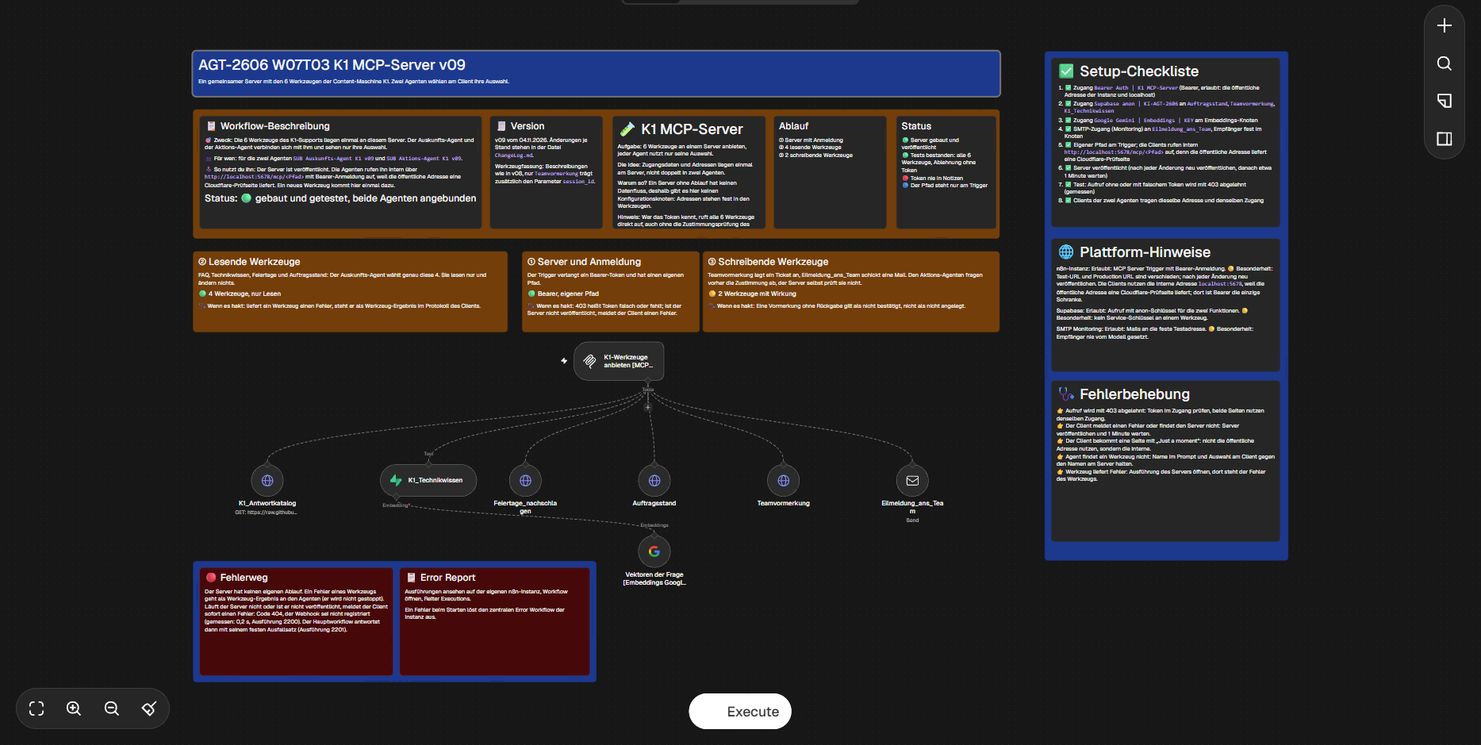
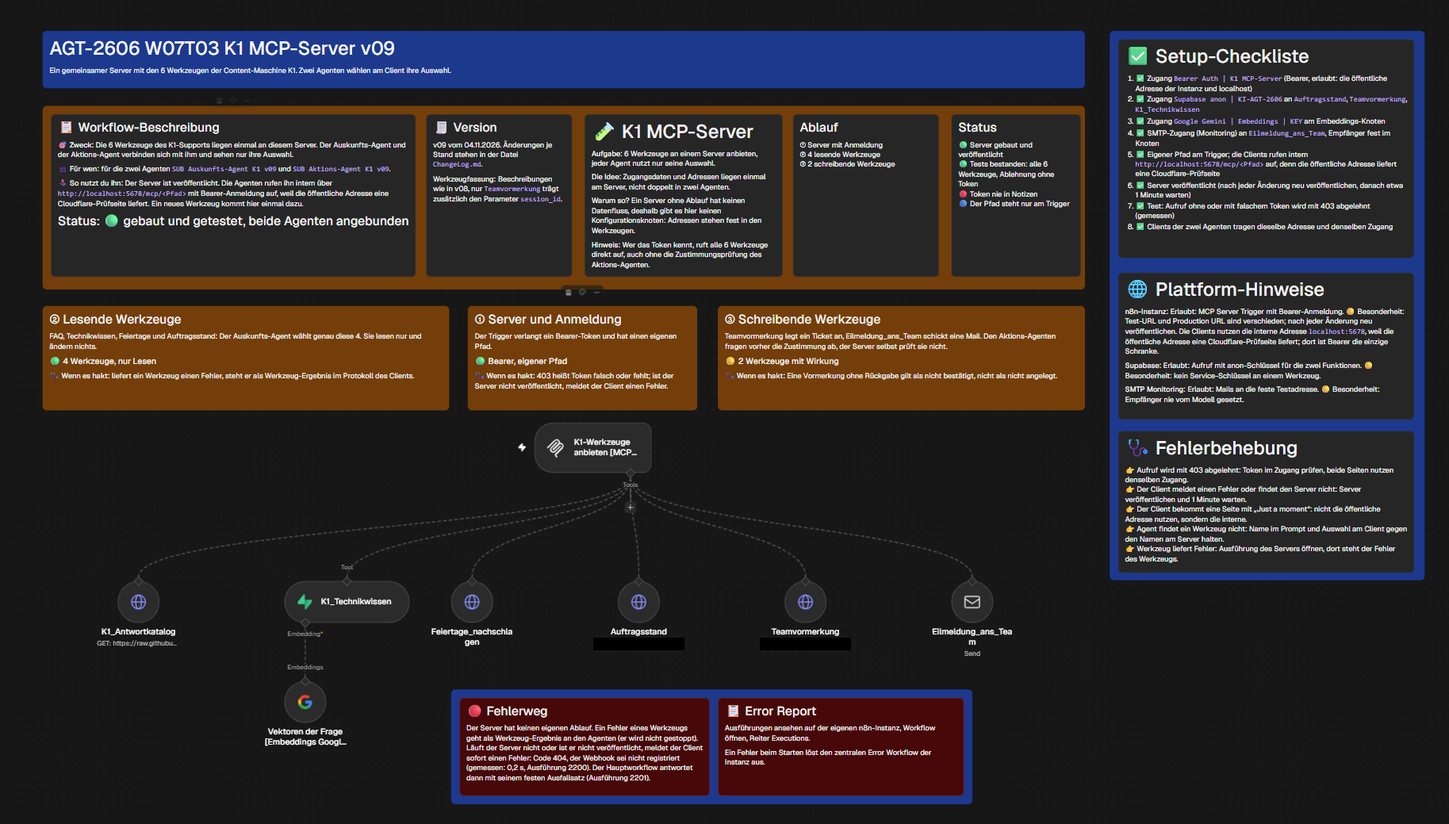
W07T03 v09: Endstand nach der Neuanordnung der 4 Workflows
Exporte von Server und beiden Agenten neu gezogen (nur Positionen und Notizgroessen geaendert, Hauptworkflow byte-gleich),
Gesamtansichten aller 4 Workflows ersetzt beziehungsweise ergaenzt (Hauptworkflow neu), Nachlauf 2232 als N6 in der Testtabelle.
Doku nach dem Vorpruefer: Frontmatter der Testtabelle entfernt, ChangeLog-Saetze und Zeitangabe angepasst, Beleg in Kapitel 1 auf die richtigen Laeufe.

diff --git a/docs/w07t03.html b/docs/w07t03.html
@@ -73,7 +73,7 @@
 <thead><tr><th scope="col">Punkt</th><th scope="col">Wie erledigt</th><th scope="col">Beleg</th></tr></thead>
 <tbody>
 <tr><th data-label="Punkt" scope="row">1. Einen MCP-Server an einen Agenten anbinden</th><td data-label="Wie erledigt">Eigener Server als n8n-Workflow: MCP Server Trigger, 6 Werkzeug-Knoten, Bearer-Anmeldung, eigener Pfad. Beide Agenten verbinden sich über einen MCP Client mit ihm.</td><td data-label="Beleg">Server einzeln getestet in den Läufen 2090 und 2097, Client-Weg in 2099, 2107 und 2139</td></tr>
-<tr><th data-label="Punkt" scope="row">2. Prüfen, ob der Agent über MCP auf die Datenquelle zugreift</th><td data-label="Wie erledigt">Im Ausführungsprotokoll heißen die Werkzeuge <code>K1_MCP_Auskunft_Auftragsstand</code> und <code>K1_MCP_Aktion_Eilmeldung_ans_Team</code>: Name des Clients, ein Unterstrich, Name des Werkzeugs.</td><td data-label="Beleg">Läufe 2107 und 2139 (Bilder in Kapitel 8), Gesamttest mit 17 Läufen</td></tr>
+<tr><th data-label="Punkt" scope="row">2. Prüfen, ob der Agent über MCP auf die Datenquelle zugreift</th><td data-label="Wie erledigt">Im Ausführungsprotokoll heißen die Werkzeuge <code>K1_MCP_Auskunft_Auftragsstand</code> und <code>K1_MCP_Aktion_Eilmeldung_ans_Team</code>: Name des Clients, ein Unterstrich, Name des Werkzeugs.</td><td data-label="Beleg">Läufe 2107 und 2113 (Bilder in Kapitel 8), Gesamttest mit 17 Läufen</td></tr>
 <tr><th data-label="Punkt" scope="row">3. Mindestens 2 Agenten mit demselben Server</th><td data-label="Wie erledigt">Auskunft mit 4 lesenden, Aktion mit 2 schreibenden Werkzeugen. Beide Agenten rufen denselben Server auf: Auskunft in 2107, Aktion über den Hauptworkflow in 2139 und 2174. Die Auswahl zeigen die Client-Knoten (4 und 2 Namen, Bilder in Kapitel 8). Die Zusatzläufe 2197 und 2198 belegen sie nicht: in 2198 rief der Aktions-Agent wegen fehlender Zustimmung kein Werkzeug auf.</td><td data-label="Beleg">Läufe 2107, 2139, 2174 und die Client-Knoten im Bild</td></tr>
 <tr><th data-label="Punkt" scope="row">4. Was war einfacher als eine manuelle Integration</th><td data-label="Wie erledigt">Gemessen, nicht behauptet: Kapitel 7. Kurz: Adressen und Beschreibungen liegen einmal vor, insgesamt wurde der Aufbau größer.</td><td data-label="Beleg">Messwerte in Kapitel 7</td></tr>
 </tbody>
@@ -88,9 +88,10 @@
 </div></div>
 <figure><img alt="Plan v09: Hauptworkflow links, daneben die zwei Agenten als Container und rechts der MCP-Server als dritter Container. Die Pfeile enden am ersten Knoten im Container und tragen die Anbindungsart Tool-Anschluss oder MCP Client. Alle Pfeile sind schwarz." height="1818" src="bilder/w07t03-plan-v09.png" width="2600"/><figcaption>Plan v09, Endstand 04.11.2026. Dicker Rand und „Einstieg“ markieren den ersten Knoten im Container, dort endet der Pfeil. <a href="plan/plan-w07t03-v09.png">Volle Auflösung</a>, <a href="https://github.com/MinkeAutomation/k1-support-agent/blob/main/docs/plan/plan-w07t03-v09.excalidraw">Excalidraw-Datei</a>.</figcaption></figure>
 <p>Die Pfeile vom Orchestrator enden am ersten Knoten im Container des jeweiligen Agenten, <code>Eingabe prüfen</code>, und tragen die Anbindungsart „Tool-Anschluss“. Die Pfeile der beiden MCP Clients enden am ersten Knoten des Servers, dem MCP Server Trigger, und tragen die Anbindungsart „MCP Client“.</p>
-<figure><img alt="Gesamtansicht des MCP-Servers v09 in n8n, dunkel: Titel, Kopfnotizen, drei Schrittkarten, der Trigger mit den 6 Werkzeugen darunter, rechts die Hilfe-Spalte, unten der Fehlerweg" height="939" src="bilder/w07t03-n8n-server-gesamt-v09.png" width="1867"/><figcaption>Gesamtansicht des MCP-Servers in n8n, aufgenommen am 04.11.2026 um 22:04 (nur als Übersicht). Unter dem Trigger hängen die 6 Werkzeuge und der Embeddings-Knoten der Wissensbasis.</figcaption></figure>
-<figure><img alt="Gesamtansicht des Auskunfts-Agenten v09 in n8n, dunkel, mit dem Client K1_MCP_Auskunft statt der Werkzeug-Knoten" height="1080" src="bilder/w07t03-n8n-auskunfts-agent-gesamt-v09.png" width="1920"/><figcaption>Auskunfts-Agent v09: Der Client <code>K1_MCP_Auskunft</code> ersetzt die 4 Werkzeug-Knoten und den Embeddings-Knoten aus v08.</figcaption></figure>
-<figure><img alt="Gesamtansicht des Aktions-Agenten v09 in n8n, dunkel, mit dem Client K1_MCP_Aktion statt der Werkzeug-Knoten" height="1080" src="bilder/w07t03-n8n-aktions-agent-gesamt-v09.png" width="1920"/><figcaption>Aktions-Agent v09: Der Client <code>K1_MCP_Aktion</code> ersetzt die 2 Werkzeug-Knoten.</figcaption></figure>
+<figure><img alt="Gesamtansicht des Hauptworkflows v09 in n8n, dunkel: vier Bereiche von links nach rechts, Eingang und Konfiguration, Sitzung prüfen und Jev-Weiche, Orchestrator mit 2 Agenten, Antwort und Protokoll, oben die Notizen" height="685" src="bilder/w07t03-n8n-hauptworkflow-gesamt-v09.png" width="2036"/><figcaption>Hauptworkflow v09, aufgenommen am 04.11.2026 um 22:56 nach dem Neuanordnen (nur als Übersicht; die Kennungen der beiden Sub-Workflow-Aufrufe sind abgedeckt). Der Orchestrator ruft die beiden Agenten als Werkzeuge, der Aufbau davor und danach ist der von v08.</figcaption></figure>
+<figure><img alt="Gesamtansicht des MCP-Servers v09 in n8n, dunkel: Titel, Kopfnotizen, drei Schrittkarten, der Trigger mit den 6 Werkzeugen darunter, rechts die Hilfe-Spalte, unten der Fehlerweg" height="1039" src="bilder/w07t03-n8n-server-gesamt-v09.png" width="1827"/><figcaption>Gesamtansicht des MCP-Servers in n8n, aufgenommen am 04.11.2026 um 22:54, nach dem Neuanordnen der Workflows (nur als Übersicht; die Adresszeilen der Supabase-Werkzeuge sind abgedeckt). Unter dem Trigger hängen die 6 Werkzeuge und der Embeddings-Knoten der Wissensbasis.</figcaption></figure>
+<figure><img alt="Gesamtansicht des Auskunfts-Agenten v09 in n8n, dunkel, mit dem Client K1_MCP_Auskunft statt der Werkzeug-Knoten" height="974" src="bilder/w07t03-n8n-auskunfts-agent-gesamt-v09.png" width="2024"/><figcaption>Auskunfts-Agent v09: Der Client <code>K1_MCP_Auskunft</code> ersetzt die 4 Werkzeug-Knoten und den Embeddings-Knoten aus v08. Aufgenommen am 04.11.2026 um 22:55 nach dem Neuanordnen.</figcaption></figure>
+<figure><img alt="Gesamtansicht des Aktions-Agenten v09 in n8n, dunkel, mit dem Client K1_MCP_Aktion statt der Werkzeug-Knoten" height="969" src="bilder/w07t03-n8n-aktions-agent-gesamt-v09.png" width="2071"/><figcaption>Aktions-Agent v09: Der Client <code>K1_MCP_Aktion</code> ersetzt die 2 Werkzeug-Knoten. Aufgenommen am 04.11.2026 um 22:54 nach dem Neuanordnen.</figcaption></figure>
 </section>
 
 <section aria-labelledby="k3-t" class="kapitel" id="k3">
@@ -147,7 +148,7 @@
 <figure><img alt="MCP Server Trigger offen: Test-URL mit unkenntlich gemachtem Pfad, Zugang Bearer Auth, Anmeldeart Bearer Auth, Pfad unkenntlich, Anweisungen für die Clients" height="1080" src="bilder/w07t03-n8n-server-trigger-offen.png" width="1920"/><figcaption>Der MCP Server Trigger: Anmeldeart Bearer Auth mit dem Zugang des Servers, der eigene Pfad ist hier unkenntlich gemacht. Darunter stehen die Anweisungen für die Clients.</figcaption></figure>
 <figure><img alt="Client K1_MCP_Auskunft offen: Endpunkt auf localhost mit unkenntlichem Pfad, Transport HTTP Streamable, Bearer Auth, Auswahl Selected mit 4 Namen, rechts eine Fehlermeldung" height="1080" src="bilder/w07t03-n8n-client-auskunft-offen.png" width="1920"/><figcaption>Client <code>K1_MCP_Auskunft</code> im Auskunfts-Agenten: Endpunkt intern auf <code>localhost</code>, Transport HTTP Streamable, Bearer, Auswahl „Selected“ mit den 4 lesenden Namen. Rechts steht die Fehlermeldung aus Ausführung 2200, siehe Kapitel 8.</figcaption></figure>
 <figure><img alt="Client K1_MCP_Aktion offen: Endpunkt auf localhost mit unkenntlichem Pfad, Bearer Auth, Auswahl Selected mit Teamvormerkung und Eilmeldung_ans_Team" height="1080" src="bilder/w07t03-n8n-client-aktion-offen.png" width="1920"/><figcaption>Client <code>K1_MCP_Aktion</code> im Aktions-Agenten: Auswahl „Selected“ mit 2 Namen, <code>Teamvormerkung</code> und <code>Eilmeldung_ans_Team</code>.</figcaption></figure>
-<p><strong>Bewusste Abweichung, interne Adresse:</strong> Der MCP Client ruft den Server nicht über die öffentliche Adresse auf, sondern intern über <code>http://localhost:5678/mcp/&lt;Pfad&gt;</code> auf dem n8n-Host. Grund: Über die öffentliche Adresse bekam der Client keine Antwort des Servers, sondern eine Prüfseite des vorgeschalteten Schutzdienstes („Just a moment...“), der Client meldete „Authentication failed“ (Lauf 2081). Derselbe Aufruf mit einem HTTP-Request-Knoten kam durch (Läufe 2089 und 2090), der Server selbst war in Ordnung. Die Ursache am Client ist nicht gemessen; ein Verdacht ist die Kennung des Clients. Der Zugang erlaubt deshalb die öffentliche Adresse der Instanz und <code>localhost</code>. Nebenwirkung: Der interne Weg läuft nicht über den Schutzdienst, die Anmeldung am Server ist die einzige Schranke.</p>
+<p><strong>Bewusste Abweichung, interne Adresse:</strong> Der MCP Client ruft den Server nicht über die öffentliche Adresse auf, sondern intern über <code>http://localhost:5678/mcp/&lt;Pfad&gt;</code> auf dem n8n-Host. Grund: Über die öffentliche Adresse bekam der Client keine Antwort des Servers, sondern eine Prüfseite des vorgeschalteten Schutzdienstes („Just a moment...“), der Client meldete „Authentication failed“ (Lauf 2081). Derselbe Aufruf mit einem HTTP-Request-Knoten kam durch (Lauf 2090), der Server selbst war in Ordnung. Die Ursache am Client ist nicht gemessen; ein Verdacht ist die Kennung des Clients. Der Zugang erlaubt deshalb die öffentliche Adresse der Instanz und <code>localhost</code>. Nebenwirkung: Der interne Weg läuft nicht über den Schutzdienst, die Anmeldung am Server ist die einzige Schranke.</p>
 </section>
 
 <section aria-labelledby="k6-t" class="kapitel" id="k6">

diff --git a/ChangeLog.md b/ChangeLog.md
@@ -19,8 +19,8 @@ Export `workflows/k1-support-agent_2026-11-04_v09.json`, Server `workflows/k1-mc
 - Einzeltest: ohne Token wird jeder Aufruf mit 403 abgelehnt, mit Token liefern alle 6 Werkzeuge ihr erwartetes Ergebnis (Ausführungen 2090 und 2097 des Hilfsworkflows).
 - Stand zum Zeitpunkt des Server-Baus (17:15): Der Umbau der beiden Agenten war noch nicht gemacht, weil der Client-Knoten an einer Cloudflare-Prüfseite scheiterte (gemessen in Lauf 2081: Prüfseite statt Serverantwort). Erledigt, siehe Abschnitt „Umbau der Agenten“ oben (Entscheidung Patrick: interne Adresse).
 
-**Umbau der Agenten (04.11.2026, 18:05 bis 19:15)**
-- Der Client-Weg läuft über die interne Adresse `http://localhost:5678/mcp/<Pfad>` (Entscheidung Patrick; der Zugang erlaubt die öffentliche Adresse der Instanz und `localhost`). Grund: über die öffentliche Adresse bekommt der Client eine Cloudflare-Prüfseite. Bewusste Abweichung vom Kursweg.
+**Umbau der Agenten (04.11.2026, 17:55 bis 19:15)**
+- Der Client-Weg läuft über die interne Adresse `http://localhost:5678/mcp/<Pfad>` (Entscheidung Patrick; der Zugang erlaubt die öffentliche Adresse der Instanz und `localhost`). Grund: über die öffentliche Adresse bekommt der Client eine Cloudflare-Prüfseite. Bewusste Abweichung von der üblichen Einrichtung über die öffentliche Adresse.
 - Auskunfts-Agent: die 4 Werkzeug-Knoten und der Embeddings-Knoten sind durch einen MCP Client `K1_MCP_Auskunft` ersetzt (Auswahl Selected, 4 Werkzeuge). Grund: die Werkzeuge liegen am Server.
 - Aktions-Agent: die 2 Werkzeug-Knoten sind durch `K1_MCP_Aktion` ersetzt (Auswahl Selected, 2 Werkzeuge). Die Sitzungskennung steht als Zeile „Sitzung: …“ im Auftrag, weil `Teamvormerkung` sie als Parameter braucht. Prompt `w07t03-x3`: der Kontext-Absatz nennt 3 statt 2 Zeilen unter dem Auftrag (nur eine Zeile ergänzt).
 - Beide `Ergebnis bündeln [Code]` geben das Namensende des Werkzeugs und die ausgepackte Rückgabe weiter. Gemessen: Toolname im Protokoll `Clientname_Werkzeugname` mit einem Unterstrich, Rückgabe mehrfach verpackt. Der Hauptworkflow blieb unverändert.
@@ -33,15 +33,16 @@ Export `workflows/k1-support-agent_2026-11-04_v09.json`, Server `workflows/k1-mc
 - Der eigene Pfad des Servers steht nicht mehr in den Notiztexten und nicht in den Exporten, dort steht ein Platzhalter. Grund: Er ist Teil der Adresse und gehört nicht in mitgelieferten Text.
 - Notizen des Hauptworkflows auf v09 und „Agent“ gebracht (13 Notizen, außerdem die Beschreibung; danach 2 weitere Notizen, `Karte Adapter` und die Testfälle am Endstand, die noch „Spezialisten“ trugen, ebenfalls auf „Agenten“ gestellt, nur Text, keine Position, keine Größe). Gemessen gegen den Stand vorher: 0 geänderte Positionen, 0 geänderte Notizgrößen, 0 geänderte Parameter außerhalb der Notizen, gleiche Verbindungen und Einstellungen. Prompt und Code des Hauptworkflows blieben unverändert, deshalb steht das Wort „Spezialist“ dort noch (Orchestrator-Prompt, Kommentare, Feldwerte `SPEZIALIST_AUSGEFALLEN` und `spezialist`). Grund: Der Hauptworkflow liest diese Feldwerte; eine Umbenennung braucht eine neue Version und neue Tests.
 - Notiz `Fehlerweg` am MCP-Server um den gemessenen Wert ergänzt: Ist der Server nicht veröffentlicht, meldet der Client den Code 404 („der Webhook ist nicht registriert“), nach 0,2 s (Ausführung 2200). Nur der Text dieser einen Notiz wurde geändert, kein Knoten, keine Position, keine Größe. Der Server ist danach neu veröffentlicht (neu veröffentlicht), davor stand ein Entwurf, der sich von der veröffentlichten Fassung nur in der Eigenschaft `color` an 3 Notizen unterschied. Nachlauf über den Hauptworkflow nach rund 1 Minute: Ausführung 2217 (Fall A), Server 2220 erfolgreich. Grund: Die Notiz soll den Code nennen, den der Client wirklich zeigt, und Entwurf und veröffentlichte Fassung sollen übereinstimmen.
-- Notiztexte in den beiden Agenten gekürzt (Auskunfts-Agent: Setup-Checkliste, Version, Status, Schrittkarte 3; Aktions-Agent: Plattform-Hinweise, Version, Schrittkarten 3 und 4), gleiche Aussage in weniger Zeichen. Nur der Text dieser 8 Notizen wurde geändert, keine Position, keine Größe, kein Parameter. Beide Subs sind danach neu veröffentlicht. Nachläufe über den Hauptworkflow: Ausführung 2222 (Auskunfts-Agent, `Auftragsstand`) und 2227 (Aktions-Agent, `Teamvormerkung`; dabei entstand die Testzeile K1-T-01057, weil das Modell aus „Auftrag 123“ die Nummer 12335 machte). Grund: Die Notizen waren für ihre Größe zu lang (Textprüfung des Layouts).
+- Notiztexte in den beiden Agenten gekürzt (Auskunfts-Agent: Setup-Checkliste, Version, Status, Schrittkarte 3; Aktions-Agent: Plattform-Hinweise, Version, Schrittkarten 3 und 4), gleiche Aussage in weniger Zeichen. Nur der Text dieser 8 Notizen wurde geändert, keine Position, keine Größe, kein Parameter. Beide Subs sind danach neu veröffentlicht. Nachläufe über den Hauptworkflow: Ausführung 2222 (Auskunfts-Agent, `Auftragsstand`) und 2227 (Aktions-Agent, `Teamvormerkung`; dabei entstand die Testzeile K1-T-01057, weil das Modell aus „Auftrag 123“ die Nummer 12335 machte). Grund: Die Notizen waren für ihre Größe zu lang.
 - Notizen am MCP-Server nochmals überarbeitet (Error Report, Setup-Checkliste, Plattform-Hinweise): Die Adresse der Instanz steht dort nur noch als „die öffentliche Adresse der Instanz“ beziehungsweise „n8n-Instanz“, die Notiz Error Report nennt keinen Link und keine Kennung des Fehler-Workflows mehr. Nur Text, keine Position, keine Größe; der Server ist danach neu veröffentlicht. Die Gesamtansicht des Servers ist neu aufgenommen, die Exporte tragen denselben Notiztext. Grund: Adressen und Kennungen der Instanz gehören nicht in Bilder und Exporte, die mitgeliefert werden.
+- Layout der 4 Workflows von Hand im Editor neu angeordnet (04.11.2026, 22:46 bis 22:56). Gemessen an den Exporten vor und nach der Neuanordnung: Es änderten sich nur Positionen und Größen von Notizen; kein Knoten, keine Verbindung, kein Text, kein Parameter. Der Server und die beiden Agenten sind in der Fassung nach der Neuanordnung veröffentlicht, der Hauptworkflow bleibt unveröffentlicht. Die 4 Gesamtansichten und die 4 Exporte sind danach neu erstellt (Exporte: Platzhalter wie zuvor, der Export des Hauptworkflows ist byte-gleich zur Fassung davor). Nachlauf über den Hauptworkflow: Ausführung 2232 („Wie ist der Stand von Auftrag 24002?“, Antwort mit Stand und Datum). Grund: Der Plan und die Bilder sollen dieselbe Anordnung zeigen wie der Workflow, den ich abgebe.
 - Ausführungsbilder mit Chat und Logs ergänzt für die Läufe 2130 (`K1_Antwortkatalog`), 2132 (`K1_Technikwissen`), 2134 (kein Werkzeug) und 2174 (`Teamvormerkung`). Grund: Für diese Werkzeuge und den Fall ohne Werkzeug gab es kein eigenes Bild.
 - Plan v09 neu gezeichnet, Pfeile enden am ersten Knoten im Container und tragen die Anbindungsart („Tool-Anschluss“, „MCP Client“). Grund: Der Einstiegspunkt eines Agenten muss im Plan erkennbar sein.
 - Exporte erstellt, in denen Zugänge, Projektadresse, Pfad, Testadresse und die IDs der Sub-Workflows durch Platzhalter ersetzt sind. Grund: Die Exporte gehen nach außen, das Token bleibt in n8n; die Notizen nennen nur die Namen der Zugänge, nicht ihre Werte.
 
 ### Gültige Läufe dieses Stands
 
-Server: 2090 und 2097 (alle 6 Werkzeuge, Hilfsworkflow), 2099 (alle 6 über den Standalone-Client auf localhost). Auskunfts-Agent: 2107, 2110, 2118, 2197. Aktions-Agent: 2113, 2115, 2116, 2119, 2198. Gesamttest über den Hauptworkflow: A 2123, 2128, 2148 · B 2130, 2150, 2152 · C 2139, 2164, 2167 · D 2134, 2155, 2157 · E 2174 · F 2132, 2170, 2172 · Fehlerweg 2200 und 2201. Nachläufe nach den Notizkorrekturen: 2207 und 2212 (Fall A über den Hauptworkflow). Nach dem Wiederveröffentlichen des Servers im Fehlerweg-Test: 2205 (der Agent lief wieder). Nachlauf nach dem letzten Veröffentlichen des Servers: 2217 (Fall A, Hauptworkflow), Server 2220. Nachläufe nach dem Kürzen der Notizen in den Agenten: 2222 (Fall A, Auskunfts-Agent 2224) und 2227 (Teamvormerkung, Aktions-Agent 2229). Zusammen 5 Nachläufe: 2207, 2212, 2217, 2222, 2227.
+Server: 2090 und 2097 (alle 6 Werkzeuge, Hilfsworkflow), 2099 (alle 6 über den Standalone-Client auf localhost). Auskunfts-Agent: 2107, 2110, 2118, 2197. Aktions-Agent: 2113, 2115, 2116, 2119, 2198. Gesamttest über den Hauptworkflow: A 2123, 2128, 2148 · B 2130, 2150, 2152 · C 2139, 2164, 2167 · D 2134, 2155, 2157 · E 2174 · F 2132, 2170, 2172 · Fehlerweg 2200 und 2201. Nachläufe nach den Notizkorrekturen: 2207 und 2212 (Fall A über den Hauptworkflow). Nach dem Wiederveröffentlichen des Servers im Fehlerweg-Test: 2205 (der Agent lief wieder). Nachlauf nach dem letzten Veröffentlichen des Servers: 2217 (Fall A, Hauptworkflow), Server 2220. Nachläufe nach dem Kürzen der Notizen in den Agenten: 2222 (Fall A, Auskunfts-Agent 2224) und 2227 (Teamvormerkung, Aktions-Agent 2229). Nachlauf nach der Neuanordnung der Workflows: 2232 (Fall A, Auftrag 24002, Hauptworkflow). Zusammen 6 Nachläufe: 2207, 2212, 2217, 2222, 2227, 2232.
 
 ## v08 (2026-11-03): Woche 7 Tag 2, Di 03.11.2026
 

diff --git a/docs/testtabelle-w07t03-v09.md b/docs/testtabelle-w07t03-v09.md
@@ -1,18 +1,8 @@
----
-title: "Testtabelle W07T03 v09"
-type: abgabe
-kurs: AGT-2606
-tag: W07T03
-datum: 2026-11-04
-sichtbarkeit: extern
-updated: 2026-11-04
----
-
 # Testtabelle W07T03, K1 Support-Agent v09
 
 Die Tabelle gehört zur Tages-Doku von Woche 7, Tag 3. Sie zählt nur Läufe am ganzen Agenten (Hauptworkflow mit beiden Agenten und dem MCP-Server). Die Einzeltests am Server und an den Agenten stehen weiter unten in eigenen Tabellen.
 
-**Zahlen:** Gesamttest 7 Fälle in 17 Läufen (Tabelle 1, 17 Zeilen), Nachläufe nach den Notizkorrekturen 5 Läufe (Tabelle 2), Einzeltests am Server 8 Fälle (Tabelle 3), Einzeltests an den Agenten 10 Läufe (Tabelle 4).
+**Zahlen:** Gesamttest 7 Fälle in 17 Läufen (Tabelle 1, 17 Zeilen), Nachläufe nach den Notizkorrekturen und der Neuanordnung 6 Läufe (Tabelle 2), Einzeltests am Server 8 Fälle (Tabelle 3), Einzeltests an den Agenten 10 Läufe (Tabelle 4).
 
 **Stand der Version beim Test (04.11.2026):**
 
@@ -51,9 +41,9 @@ Die Tabelle gehört zur Tages-Doku von Woche 7, Tag 3. Sie zählt nur Läufe am 
 
 **Ergebnis Tabelle 1:** 17 von 17 Läufen bestanden. Die Erwartung zum Werkzeug traf in jedem Lauf zu. Die Fälle A, B, C, D und F laufen je 3 Mal, weil die Antwort des Modells von Lauf zu Lauf im Wortlaut schwankt; die Werkzeugwahl blieb gleich.
 
-## Tabelle 2: Nachläufe nach den Notizkorrekturen (5 Zeilen)
+## Tabelle 2: Nachläufe nach den Notizkorrekturen und der Neuanordnung (6 Zeilen)
 
-Nach dem Berichtigen der Notizen am Server und dem erneuten Veröffentlichen des Servers (dreimal) lief je ein Fall A noch einmal, um zu belegen, dass die Werkzeuge weiter über den Server erreichbar sind (N1 bis N3). Nach dem Kürzen von Notiztexten in den beiden Agenten und dem erneuten Veröffentlichen lief je ein Fall noch einmal: N4 über den Auskunfts-Agenten, N5 über den Aktions-Agenten.
+Nach dem Berichtigen der Notizen am Server und dem erneuten Veröffentlichen des Servers (dreimal) lief je ein Fall A noch einmal, um zu belegen, dass die Werkzeuge weiter über den Server erreichbar sind (N1 bis N3). Nach dem Kürzen von Notiztexten in den beiden Agenten und dem erneuten Veröffentlichen lief je ein Fall noch einmal: N4 über den Auskunfts-Agenten, N5 über den Aktions-Agenten. Nach dem Neuanordnen der 4 Workflows im Editor (nur Positionen und Notizgrößen) lief N6 über den Hauptworkflow.
 
 | Nr | Eingabe | Werkzeug gemessen | Antwort im Wortlaut | Urteil | Lauf |
 |---|---|---|---|---|---|
@@ -62,6 +52,7 @@ Nach dem Berichtigen der Notizen am Server und dem erneuten Veröffentlichen des
 | N3 | Wie ist der Stand von Auftrag 24002? | `Auftragsstand` | Du schreibst mit dem KI-Assistenten von K1. Auftrag 24002 ist ein Social-Media-Paket mit 3 Beiträgen und befindet sich aktuell in der Erstellung. Recherche und Texte laufen noch, die Vorschau wird voraussichtlich am 28.10.2026 bereitgestellt. Zuletzt wurde der Auftrag am 27.10.2026 aktualisiert. | PASS | 2217 |
 | N4 | Wie ist der Stand von Auftrag 24002? (nach dem Kürzen der Notizen im Auskunfts-Agenten) | `Auftragsstand` | Du schreibst mit dem KI-Assistenten von K1. Auftrag 24002 ist ein Social-Media-Paket mit 3 Beiträgen und befindet sich aktuell in der Erstellung. Recherche und Texte laufen noch, die Vorschau wird voraussichtlich am 28.10.2026 bereitgestellt. Zuletzt wurde der Auftrag am 27.10.2026 aktualisiert. | PASS | 2222 |
 | N5 | Bitte leg ein Ticket an: Das Logo im Paket zu Auftrag 123 ist verpixelt. (nach dem Kürzen der Notizen im Aktions-Agenten) | `Teamvormerkung` | Du schreibst mit dem KI-Assistenten von K1. Das Ticket K1-T-01057 wurde für die Korrektur des verpixelten Logos im Paket zu Auftrag 12335 angelegt.<br><br>Bestätigt: Vormerkung K1-T-01057. | PASS (Werkzeug über den Server erreicht), aber Abweichung vom Fall E1 | 2227 |
+| N6 | Wie ist der Stand von Auftrag 24002? (nach dem Neuanordnen der Workflows) | `Auftragsstand` | Du schreibst mit dem KI-Assistenten von K1. Auftrag 24002 ist ein Social-Media-Paket mit 3 Beiträgen und befindet sich aktuell in der Erstellung. Recherche und Texte laufen noch, die Vorschau wird voraussichtlich am 28.10.2026 bereitgestellt. Der Stand wurde zuletzt am 27.10.2026 aktualisiert. | PASS | 2232 |
 
 **Abweichung bei N5:** Der Aktions-Agent hat aus „Auftrag 123“ die Nummer 12335 gemacht und damit eine gültige Vormerkung angelegt (Testzeile K1-T-01057, nicht entfernt). Im Lauf 2174 (E1) hatte derselbe Eingabesatz noch die Antwort „Auftragsnummer ungültig“ ergeben. Das Modell schwankt hier von Lauf zu Lauf; die Prüfung der Nummer im Werkzeug greift nur bei der Nummer, die der Agent übergibt. Für N5 zählt nur der Beleg, dass `Teamvormerkung` nach dem Veröffentlichen weiter über den Server läuft.
 

diff --git a/README.md b/README.md
@@ -27,7 +27,7 @@ Je Version Plan, Tests, Workflow-Export und Tages-Doku. Ein Strich heißt: für 
 
 | Version | Datum | Plan | Tests | Workflow | Tages-Doku | Git-Tag |
 |---|---|---|---|---|---|---|
-| v09 | 04.11.2026 | [Plan v09](docs/plan/plan-w07t03-v09.png) | [Testtabelle v09](docs/testtabelle-w07t03-v09.md) (gesamt 17 Läufe, Nachläufe 5, Einzeltests Server 8, Agenten 10) | [Export](workflows/k1-support-agent_2026-11-04_v09.json), [Server](workflows/k1-mcp-server_2026-11-04_v09.json), [Auskunft](workflows/subs/sub-auskunfts-agent-k1.json), [Aktion](workflows/subs/sub-aktions-agent-k1.json) | [Woche 7 Tag 3](https://minkeautomation.github.io/k1-support-agent/w07t03.html) | `v09` |
+| v09 | 04.11.2026 | [Plan v09](docs/plan/plan-w07t03-v09.png) | [Testtabelle v09](docs/testtabelle-w07t03-v09.md) (gesamt 17 Läufe, Nachläufe 6, Einzeltests Server 8, Agenten 10) | [Export](workflows/k1-support-agent_2026-11-04_v09.json), [Server](workflows/k1-mcp-server_2026-11-04_v09.json), [Auskunft](workflows/subs/sub-auskunfts-agent-k1.json), [Aktion](workflows/subs/sub-aktions-agent-k1.json) | [Woche 7 Tag 3](https://minkeautomation.github.io/k1-support-agent/w07t03.html) | `v09` |
 | v08 | 03.11.2026 | [Plan v08](docs/plan/plan-w07t02-v08.png) | [Testtabelle v08](docs/testtabelle-w07t02-v08.md) (Schlussreihe 9 Läufe, Nachtrag 6, Kontrolle 6) | [Export](workflows/k1-support-agent_2026-11-03_v08.json), Agenten v08 über Tag `v08` | [Woche 7 Tag 2](https://minkeautomation.github.io/k1-support-agent/w07t02.html) | `v08` |
 | v07 | 02.11.2026 | [Plan v07](docs/plan/plan-w07t01-v07.png) | [Testtabelle v07](docs/testtabelle-w07t01-v07.md) (10 Testfälle), [Knotentest](docs/knotentest-pruefknoten.md) | [Export](workflows/k1-support-agent_2026-11-02_v07.json), Agenten v07 über Tag `v07` | [Woche 7 Tag 1](https://minkeautomation.github.io/k1-support-agent/w07t01.html) | `v07` |
 | v06 | 30.10.2026 | gab es nicht, siehe [Versionsmatrix](docs/versionsmatrix.md) | [Testtabelle v06](docs/testtabelle-w06t05-v06.md) (4 Testfälle), [Knotentest](docs/knotentest-pruefknoten.md) | [Export](workflows/k1-support-agent_2026-10-30_v06.json), [Subs](workflows/subs/) | [Woche 6 Tag 5](https://minkeautomation.github.io/k1-support-agent/w06t05.html) | `v06` |
@@ -46,7 +46,7 @@ Zwei Arten, bewusst getrennt benannt:
 
 | Datei | Version | Was drin steht | Zahl |
 |---|---|---|---|
-| [docs/testtabelle-w07t03-v09.md](docs/testtabelle-w07t03-v09.md) | v09 | Gesamttest über den Hauptworkflow mit MCP-Server, Chat-Antwort ungekürzt, Werkzeug aus dem Ausführungsprotokoll; Nachläufe, Einzeltests am Server und an den Agenten in eigenen Tabellen | Gesamttest 17 Läufe, 17 bestanden; Nachläufe 5, alle PASS (N5 mit Abweichung vom Fall E1, siehe Datei); Einzeltests Server 8 und Agenten 10 |
+| [docs/testtabelle-w07t03-v09.md](docs/testtabelle-w07t03-v09.md) | v09 | Gesamttest über den Hauptworkflow mit MCP-Server, Chat-Antwort ungekürzt, Werkzeug aus dem Ausführungsprotokoll; Nachläufe, Einzeltests am Server und an den Agenten in eigenen Tabellen | Gesamttest 17 Läufe, 17 bestanden; Nachläufe 6, alle PASS (N5 mit Abweichung vom Fall E1, siehe Datei); Einzeltests Server 8 und Agenten 10 |
 | [docs/testtabelle-w07t02-v08.md](docs/testtabelle-w07t02-v08.md) | v08 | Handoff und Fehlerbehandlung, Chat-Antwort ungekürzt, Messart live oder nur Knotentest je Aussage | Schlussreihe 9 Läufe, 7 bestanden; Nachtrag 6 Läufe, 6 bestanden; Kontrolle am Endstand 6 Läufe, 6 bestanden |
 | [docs/testtabelle-w07t01-v07.md](docs/testtabelle-w07t01-v07.md) | v07 | Testfälle Orchestrator mit Agenten, Chat-Antwort ungekürzt, Startzeiten der Unterläufe | Testreihe 10 Testfälle, 10 bestanden; Kontrolle 14 Läufe, 12 bestanden |
 | [docs/knotentest-pruefknoten.md](docs/knotentest-pruefknoten.md) | v05.1, v06, v07 | Knotentest Prüfknoten, je Eingabesatz Kennung, Eingabe, Erwartung, Ergebnis | 289 Prüffälle (198 ersetzt, 91 bleiben stehen), 0 Abweichungen |

diff --git a/docs/versionsmatrix.md b/docs/versionsmatrix.md
@@ -4,7 +4,7 @@ Je Workflow-Version steht hier, was es dazu im Repository gibt: Plan, Testtabell
 
 | Version | Datum | Plan | Testtabelle | Tages-Doku | Workflow-Export |
 |---|---|---|---|---|---|
-| v09 | 04.11.2026 | [Plan v09](plan/plan-w07t03-v09.png) | [Testtabelle v09](testtabelle-w07t03-v09.md) (Gesamttest 17 Läufe, alle bestanden; Nachläufe 5; Einzeltests Server 8, Agenten 10) | [W7 Tag 3](w07t03.html) | [Export v09](../workflows/k1-support-agent_2026-11-04_v09.json), [Server](../workflows/k1-mcp-server_2026-11-04_v09.json), [Auskunft](../workflows/subs/sub-auskunfts-agent-k1.json), [Aktion](../workflows/subs/sub-aktions-agent-k1.json) |
+| v09 | 04.11.2026 | [Plan v09](plan/plan-w07t03-v09.png) | [Testtabelle v09](testtabelle-w07t03-v09.md) (Gesamttest 17 Läufe, alle bestanden; Nachläufe 6; Einzeltests Server 8, Agenten 10) | [W7 Tag 3](w07t03.html) | [Export v09](../workflows/k1-support-agent_2026-11-04_v09.json), [Server](../workflows/k1-mcp-server_2026-11-04_v09.json), [Auskunft](../workflows/subs/sub-auskunfts-agent-k1.json), [Aktion](../workflows/subs/sub-aktions-agent-k1.json) |
 | v08 | 03.11.2026 | [Plan v08](plan/plan-w07t02-v08.png) | [Testtabelle v08](testtabelle-w07t02-v08.md) | [W7 Tag 2](w07t02.html) | [Export v08](../workflows/k1-support-agent_2026-11-03_v08.json) |
 | v07 | 02.11.2026 | [Plan v07](plan/plan-w07t01-v07.png) | [Testtabelle v07](testtabelle-w07t01-v07.md) | [W7 Tag 1](w07t01.html) | [Export v07](../workflows/k1-support-agent_2026-11-02_v07.json) |
 | v06 | 30.10.2026 | gab es nicht: für v06 wurde kein Plan auf dem Endstand gezeichnet; der Aufbau ist der von Plan v05, nur dass die Jev-Weiche und das Schreiben der Protokollzeile je ein Aufruf eines Sub-Workflows sind (Gesamtansicht v06 in der Tages-Doku) | [Testtabelle v06](testtabelle-w06t05-v06.md) | [W6 Tag 5](w06t05.html) | [Export v06](../workflows/k1-support-agent_2026-10-30_v06.json) |
